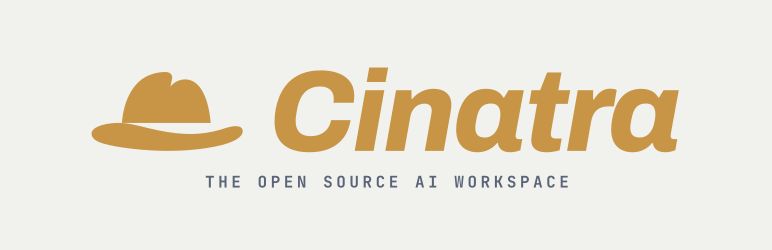
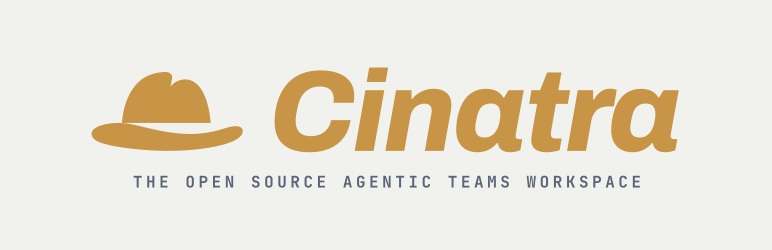
Use the product claim "The Open Source Agentic Teams Workspace" (#117)
Assisted-by: Claude Code (claude-sonnet-5-5)

Changed region(s): [[0.1554, 0.7, 0.8394, 0.756]]

diff --git a/.wordpress-org/README.md b/.wordpress-org/README.md
@@ -16,7 +16,7 @@ established brand rules — never an ad-hoc recolour or layout.
 | --- | --- | --- |
 | `icon-128x128.png` | 128×128 | Brand favicon treatment: mustard fedora on a clean white/paper ground with a hairline border ("Mustard on paper or surface ... never on the navy ground"). Fedora kept clear of corners so it survives the circular mask WordPress applies. |
 | `icon-256x256.png` | 256×256 | Same as the 128 icon, rendered at 2×. |
-| `banner-772x250.png` | 772×250 | Light banner: paper (cream) ground + mustard horizontal lockup + tagline "The open source AI workspace" in slate. "Mustard on paper" is the Primary colourway. |
+| `banner-772x250.png` | 772×250 | Light banner: paper (cream) ground + mustard horizontal lockup + the product claim "The Open Source Agentic Teams Workspace" in slate, set in tracked capitals. "Mustard on paper" is the Primary colourway. |
 | `banner-1544x500.png` | 1544×500 | Same as the 772 banner, rendered at 2× (retina). |
 | `manifest.json` | — | Provenance for each generated file (source master, colourway, tokens version, sha256). |
 
